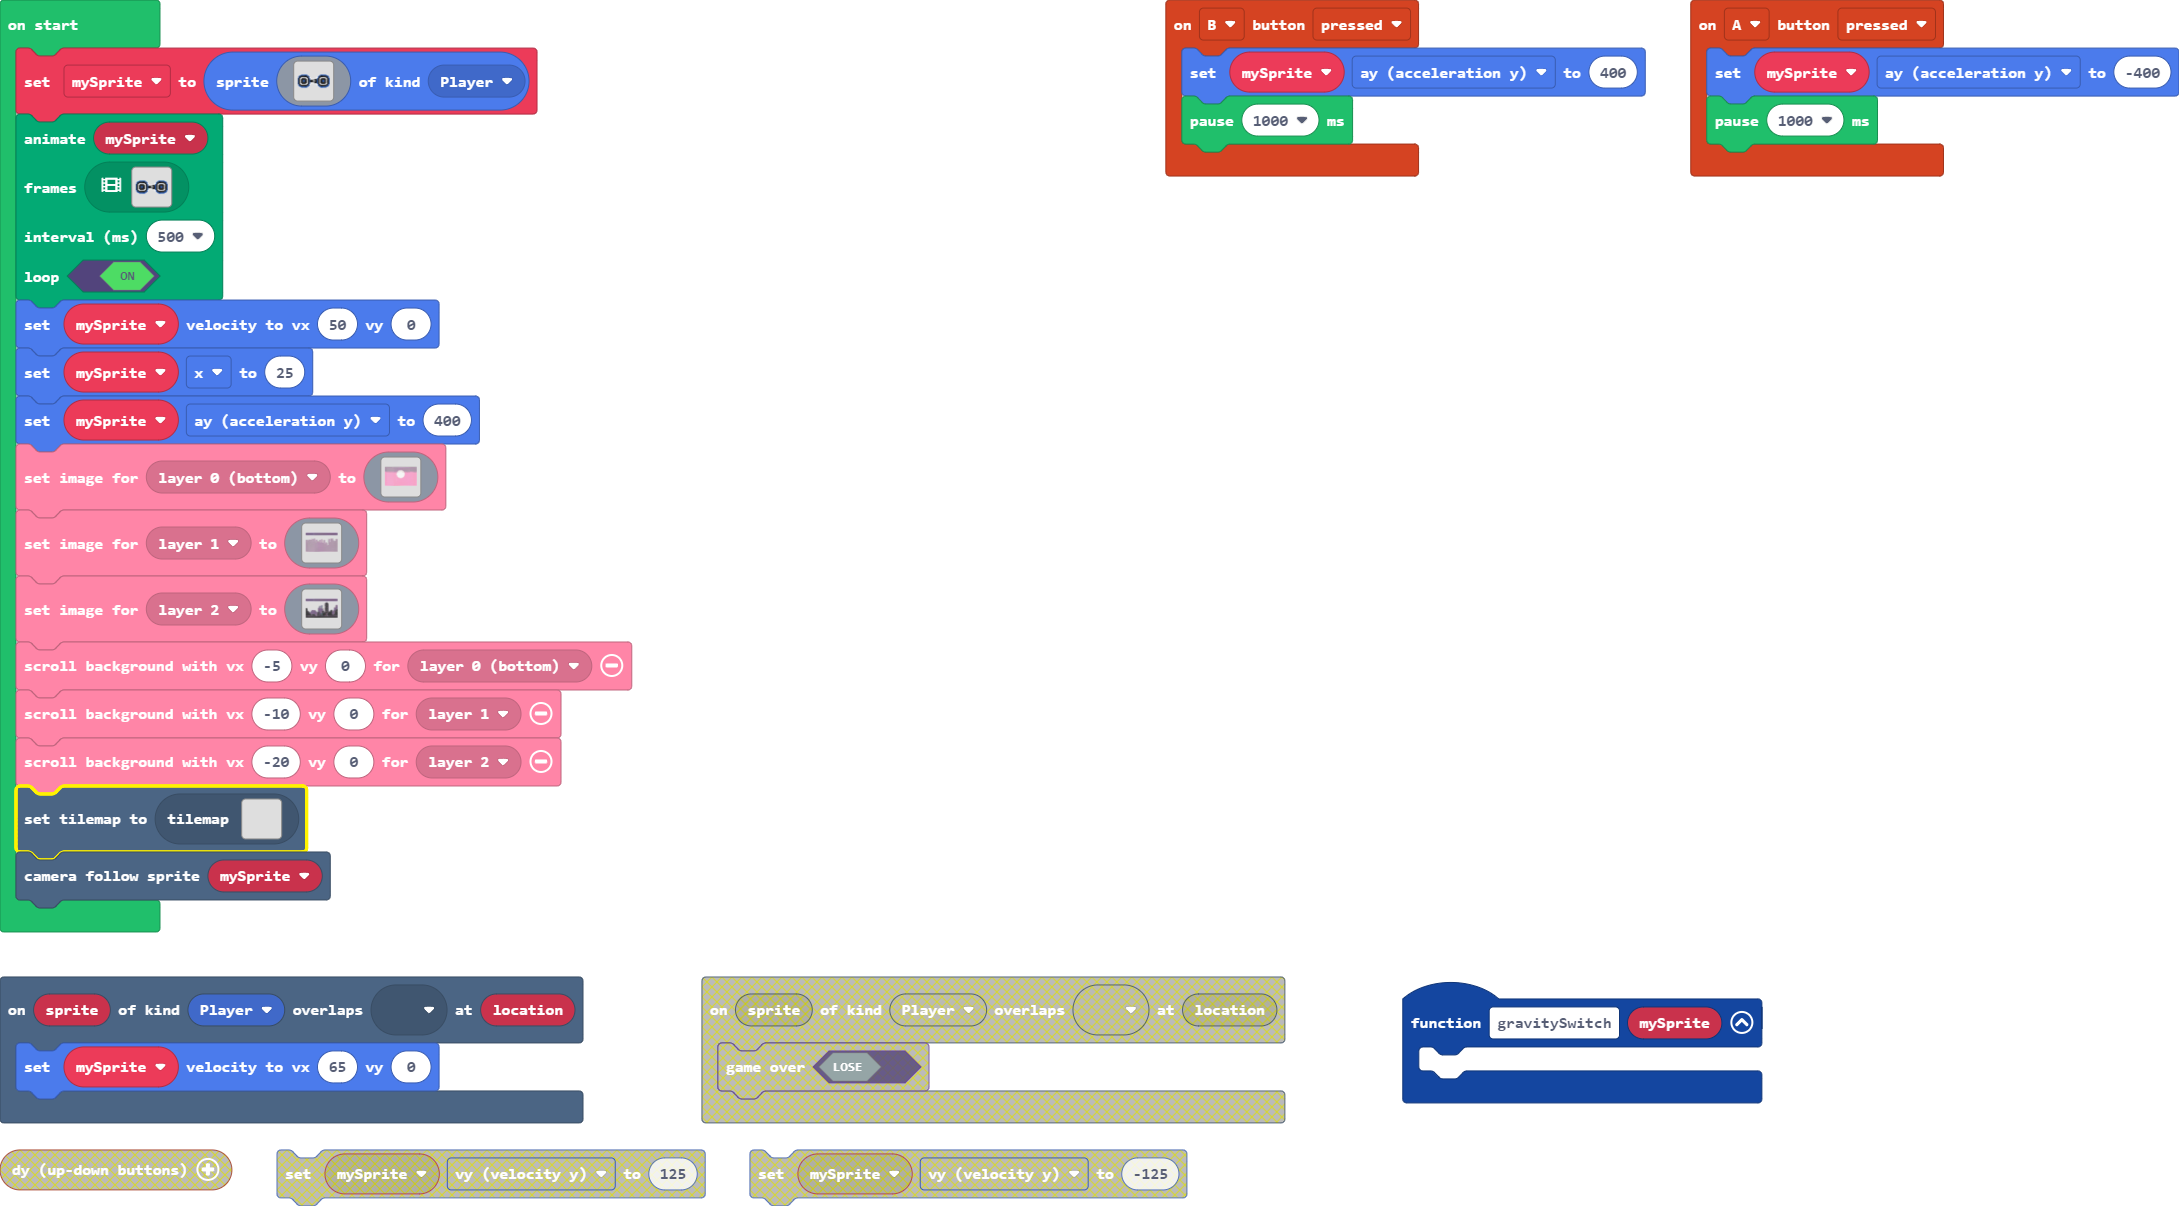
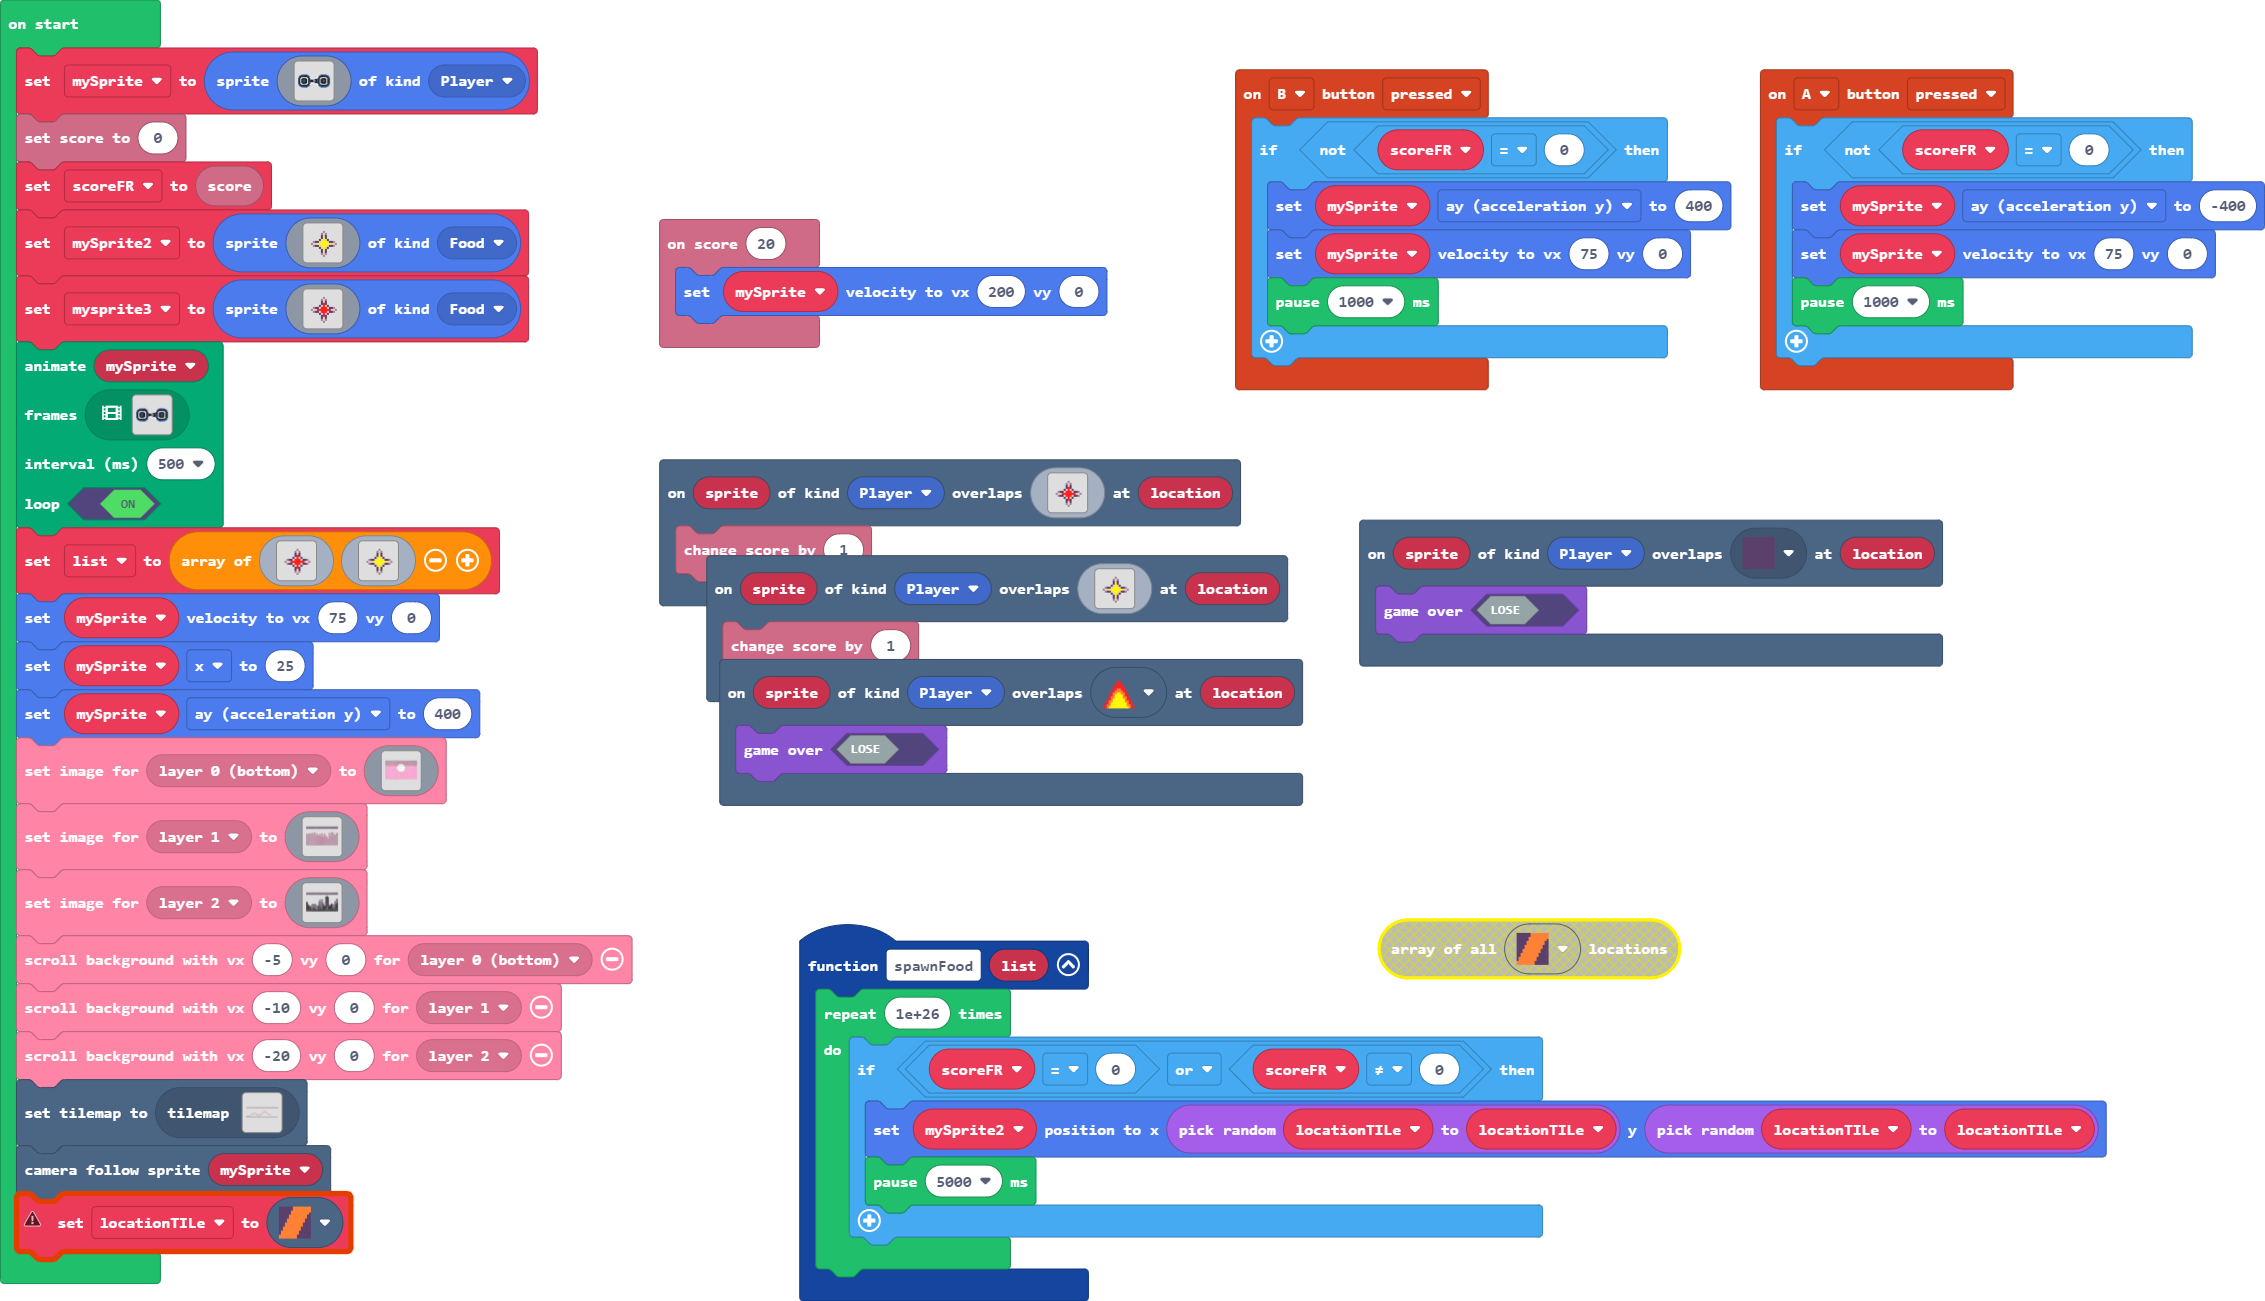
Update main.blocks, main.ts, tilemap.g.jres, tilemap.g.ts

diff --git a/tilemap.g.ts b/tilemap.g.ts
@@ -8,6 +8,12 @@ namespace myTiles {
     export const tile2 = image.ofBuffer(hex``);
     //% fixedInstance jres blockIdentity=images._tile
     export const tile3 = image.ofBuffer(hex``);
+    //% fixedInstance jres blockIdentity=images._tile
+    export const tile4 = image.ofBuffer(hex``);
+    //% fixedInstance jres blockIdentity=images._tile
+    export const tile5 = image.ofBuffer(hex``);
+    //% fixedInstance jres blockIdentity=images._tile
+    export const tile6 = image.ofBuffer(hex``);
 
     helpers._registerFactory("tilemap", function(name: string) {
         switch(helpers.stringTrim(name)) {
@@ -49,6 +55,77 @@ namespace myTiles {
 . . . . . . . . . . . . . . . . 
 . . . . . . . . . . . . . . . . 
 `, [myTiles.transparency16], TileScale.Sixteen);
+            case "level4":
+            case "level4":return tiles.createTilemap(hex`1000100000000000000000000000000000000000000000000000000000000000000000000000000000000000000000000000000000000000000000000000000000000000000000000000000000000000000000000000000000000000000000000000000000000000000000000000000000000000000000000000000000000000000000000000000000000000000000000000000000000000000000000000000000000000000000000000000000000000000000000000000000000000000000000000000000000000000000000000000000000000000000000000000000000000000000000000000000000000000000000000000000000000000000000000000000000000`, img`
+. . . . . . . . . . . . . . . . 
+. . . . . . . . . . . . . . . . 
+. . . . . . . . . . . . . . . . 
+. . . . . . . . . . . . . . . . 
+. . . . . . . . . . . . . . . . 
+. . . . . . . . . . . . . . . . 
+. . . . . . . . . . . . . . . . 
+. . . . . . . . . . . . . . . . 
+. . . . . . . . . . . . . . . . 
+. . . . . . . . . . . . . . . . 
+. . . . . . . . . . . . . . . . 
+. . . . . . . . . . . . . . . . 
+. . . . . . . . . . . . . . . . 
+. . . . . . . . . . . . . . . . 
+. . . . . . . . . . . . . . . . 
+. . . . . . . . . . . . . . . . 
+`, [myTiles.transparency16], TileScale.Sixteen);
+            case "level5":
+            case "level5":return tiles.createTilemap(hex`1000100000000000000000000000000000000000000000000000000000000000000000000000000000000000000000000000000000000000000000000000000000000000000000000000000000000000000000000000000000000000000000000000000000000000000000000000000000000000000000000000000000000000000000000000000000000000000000000000000000000000000000000000000000000000000000000000000000000000000000000000000000000000000000000000000000000000000000000000000000000000000000000000000000000000000000000000000000000000000000000000000000000000000000000000000000000000`, img`
+. . . . . . . . . . . . . . . . 
+. . . . . . . . . . . . . . . . 
+. . . . . . . . . . . . . . . . 
+. . . . . . . . . . . . . . . . 
+. . . . . . . . . . . . . . . . 
+. . . . . . . . . . . . . . . . 
+. . . . . . . . . . . . . . . . 
+. . . . . . . . . . . . . . . . 
+. . . . . . . . . . . . . . . . 
+. . . . . . . . . . . . . . . . 
+. . . . . . . . . . . . . . . . 
+. . . . . . . . . . . . . . . . 
+. . . . . . . . . . . . . . . . 
+. . . . . . . . . . . . . . . . 
+. . . . . . . . . . . . . . . . 
+. . . . . . . . . . . . . . . . 
+`, [myTiles.transparency16], TileScale.Sixteen);
+            case "level3":
[1 lines of base64/hex data omitted]
+2...................................................................................................
+....................................................................................................
+....................................................................................................
+....................................................................................................
+....................................................................................................
+....................................................................................................
+....................................................................................................
+....................................................................................................
+....................................................................................................
+....................................................................................................
+....................................................................................................
+....................................................................................................
+...........................................................2222.....................................
+......................................................22222.........................................
+....................................................................................................
+....................................................................................................
+.........................22222...................22222..............................................
+...............................................................22222................................
+....................................................................................................
+....................22222...........................................................................
+....................................................................22222...........................
+...........................................222222...................................................
+...............22222..........222222222..................................22222......................
+....................................................................................................
+.......................................2222.........................................................
+....................................................................................................
+222222222222222.....................................................................................
+....................................................................................................
+....................................................................................................
+2...................................................................................................
+`, [myTiles.transparency16,myTiles.tile5,myTiles.tile4,myTiles.tile6], TileScale.Sixteen);
         }
         return null;
     })
@@ -59,6 +136,12 @@ namespace myTiles {
             case "tile1":return tile1;
             case "tile2":return tile2;
             case "tile3":return tile3;
+            case "myTile":
+            case "tile4":return tile4;
+            case "myTile0":
+            case "tile5":return tile5;
+            case "myTile1":
+            case "tile6":return tile6;
         }
         return null;
     })

diff --git a/main.ts b/main.ts
@@ -1,20 +1,80 @@
 namespace SpriteKind {
     export const deathBlock = SpriteKind.create()
 }
+scene.onOverlapTile(SpriteKind.Player, img`
+    . . . . . . . . . . . . . . . . 
+    . . . . . . . . . . . . . . . . 
+    . . . . . . . . b . . . . . . . 
+    . . . . . . . b d b . . . . . . 
+    . . . . . . . c d c . . . . . . 
+    . . . . . . . c 5 c . . . . . . 
+    . . . . . . c d 5 d c . . . . . 
+    . . . b c c d 5 5 5 d c c b . . 
+    . . b d d 5 5 5 5 5 5 5 d d b . 
+    . . . b c c d 5 5 5 d c c b . . 
+    . . . . . . c d 5 d c . . . . . 
+    . . . . . . . c 5 c . . . . . . 
+    . . . . . . . c d c . . . . . . 
+    . . . . . . . b d b . . . . . . 
+    . . . . . . . . b . . . . . . . 
+    . . . . . . . . . . . . . . . . 
+    `, function (sprite, location) {
+    info.changeScoreBy(1)
+})
+scene.onOverlapTile(SpriteKind.Player, assets.tile`myTile1`, function (sprite, location) {
+    game.gameOver(false)
+})
 controller.B.onEvent(ControllerButtonEvent.Pressed, function () {
-    mySprite.ay = 400
-    pause(1000)
+    if (!(scoreFR == 0)) {
+        mySprite.ay = 400
+        mySprite.setVelocity(75, 0)
+        pause(1000)
+    }
 })
-controller.A.onEvent(ControllerButtonEvent.Pressed, function () {
-    mySprite.ay = -400
-    pause(1000)
+scene.onOverlapTile(SpriteKind.Player, assets.tile`myTile`, function (sprite, location) {
+    game.gameOver(false)
 })
-scene.onOverlapTile(SpriteKind.Player, assets.tile`tile2`, function (sprite, location) {
-    mySprite.setVelocity(65, 0)
-})
-function gravitySwitch (mySprite: Sprite) {
-	
+function spawnFood (list: any[]) {
+    for (let index = 0; index < 1e+26; index++) {
+        if (scoreFR == 0 || scoreFR != 0) {
+            mySprite2.setPosition(randint(locationTILe, locationTILe), randint(locationTILe, locationTILe))
+            pause(5000)
+        }
+    }
 }
+controller.A.onEvent(ControllerButtonEvent.Pressed, function () {
+    if (!(scoreFR == 0)) {
+        mySprite.ay = -400
+        mySprite.setVelocity(75, 0)
+        pause(1000)
+    }
+})
+scene.onOverlapTile(SpriteKind.Player, img`
+    . . . . . . . . . . . . . . . . 
+    . . . . . . . . . . . . . . . . 
+    . . . . . . . . b . . . . . . . 
+    . . . . . . . b d b . . . . . . 
+    . . . . . . . c d c . . . . . . 
+    . . . . . . . c 2 c . . . . . . 
+    . . . . . . c d 2 d c . . . . . 
+    . . . b c c d 2 2 2 d c c b . . 
+    . . b d d 2 2 2 2 2 2 2 d d b . 
+    . . . b c c d 2 2 2 d c c b . . 
+    . . . . . . c d 2 d c . . . . . 
+    . . . . . . . c 2 c . . . . . . 
+    . . . . . . . c d c . . . . . . 
+    . . . . . . . b d b . . . . . . 
+    . . . . . . . . b . . . . . . . 
+    . . . . . . . . . . . . . . . . 
+    `, function (sprite, location) {
+    info.changeScoreBy(1)
+})
+info.onScore(20, function () {
+    mySprite.setVelocity(200, 0)
+})
+let locationTILe = 0
+let mySprite2: Sprite = null
+let scoreFR = 0
 let mySprite: Sprite = null
 mySprite = sprites.create(img`
     ......................................
@@ -48,6 +108,44 @@ mySprite = sprites.create(img`
     ......................................
     ......................................
     `, SpriteKind.Player)
+info.setScore(0)
+scoreFR = info.score()
+mySprite2 = sprites.create(img`
+    . . . . . . . . . . . . . . . . 
+    . . . . . . . . . . . . . . . . 
+    . . . . . . . . b . . . . . . . 
+    . . . . . . . b d b . . . . . . 
+    . . . . . . . c d c . . . . . . 
+    . . . . . . . c 5 c . . . . . . 
+    . . . . . . c d 5 d c . . . . . 
+    . . . b c c d 5 5 5 d c c b . . 
+    . . b d d 5 5 5 5 5 5 5 d d b . 
+    . . . b c c d 5 5 5 d c c b . . 
+    . . . . . . c d 5 d c . . . . . 
+    . . . . . . . c 5 c . . . . . . 
+    . . . . . . . c d c . . . . . . 
+    . . . . . . . b d b . . . . . . 
+    . . . . . . . . b . . . . . . . 
+    . . . . . . . . . . . . . . . . 
+    `, SpriteKind.Food)
+let mysprite3 = sprites.create(img`
+    . . . . . . . . . . . . . . . . 
+    . . . . . . . . . . . . . . . . 
+    . . . . . . . . b . . . . . . . 
+    . . . . . . . b d b . . . . . . 
+    . . . . . . . c d c . . . . . . 
+    . . . . . . . c 2 c . . . . . . 
+    . . . . . . c d 2 d c . . . . . 
+    . . . b c c d 2 2 2 d c c b . . 
+    . . b d d 2 2 2 2 2 2 2 d d b . 
+    . . . b c c d 2 2 2 d c c b . . 
+    . . . . . . c d 2 d c . . . . . 
+    . . . . . . . c 2 c . . . . . . 
+    . . . . . . . c d c . . . . . . 
+    . . . . . . . b d b . . . . . . 
+    . . . . . . . . b . . . . . . . 
+    . . . . . . . . . . . . . . . . 
+    `, SpriteKind.Food)
 animation.runImageAnimation(
 mySprite,
 [img`
@@ -178,7 +276,42 @@ mySprite,
 500,
 true
 )
-mySprite.setVelocity(50, 0)
+let list = [img`
+    . . . . . . . . . . . . . . . . 
+    . . . . . . . . . . . . . . . . 
+    . . . . . . . . b . . . . . . . 
+    . . . . . . . b d b . . . . . . 
+    . . . . . . . c d c . . . . . . 
+    . . . . . . . c 2 c . . . . . . 
+    . . . . . . c d 2 d c . . . . . 
+    . . . b c c d 2 2 2 d c c b . . 
+    . . b d d 2 2 2 2 2 2 2 d d b . 
+    . . . b c c d 2 2 2 d c c b . . 
+    . . . . . . c d 2 d c . . . . . 
+    . . . . . . . c 2 c . . . . . . 
+    . . . . . . . c d c . . . . . . 
+    . . . . . . . b d b . . . . . . 
+    . . . . . . . . b . . . . . . . 
+    . . . . . . . . . . . . . . . . 
+    `, img`
+    . . . . . . . . . . . . . . . . 
+    . . . . . . . . . . . . . . . . 
+    . . . . . . . . b . . . . . . . 
+    . . . . . . . b d b . . . . . . 
+    . . . . . . . c d c . . . . . . 
+    . . . . . . . c 5 c . . . . . . 
+    . . . . . . c d 5 d c . . . . . 
+    . . . b c c d 5 5 5 d c c b . . 
+    . . b d d 5 5 5 5 5 5 5 d d b . 
+    . . . b c c d 5 5 5 d c c b . . 
+    . . . . . . c d 5 d c . . . . . 
+    . . . . . . . c 5 c . . . . . . 
+    . . . . . . . c d c . . . . . . 
+    . . . . . . . b d b . . . . . . 
+    . . . . . . . . b . . . . . . . 
+    . . . . . . . . . . . . . . . . 
+    `]
+mySprite.setVelocity(75, 0)
 mySprite.x = 25
 mySprite.ay = 400
 scroller.setLayerImage(scroller.BackgroundLayer.Layer0, img`
@@ -468,3 +601,4 @@ scroller.scrollBackgroundWithSpeed(-10, 0, scroller.BackgroundLayer.Layer1)
 scroller.scrollBackgroundWithSpeed(-20, 0, scroller.BackgroundLayer.Layer2)
 tiles.setCurrentTilemap(tilemap`level3`)
 scene.cameraFollowSprite(mySprite)
+locationTILe = assets.tile`myTile0`
